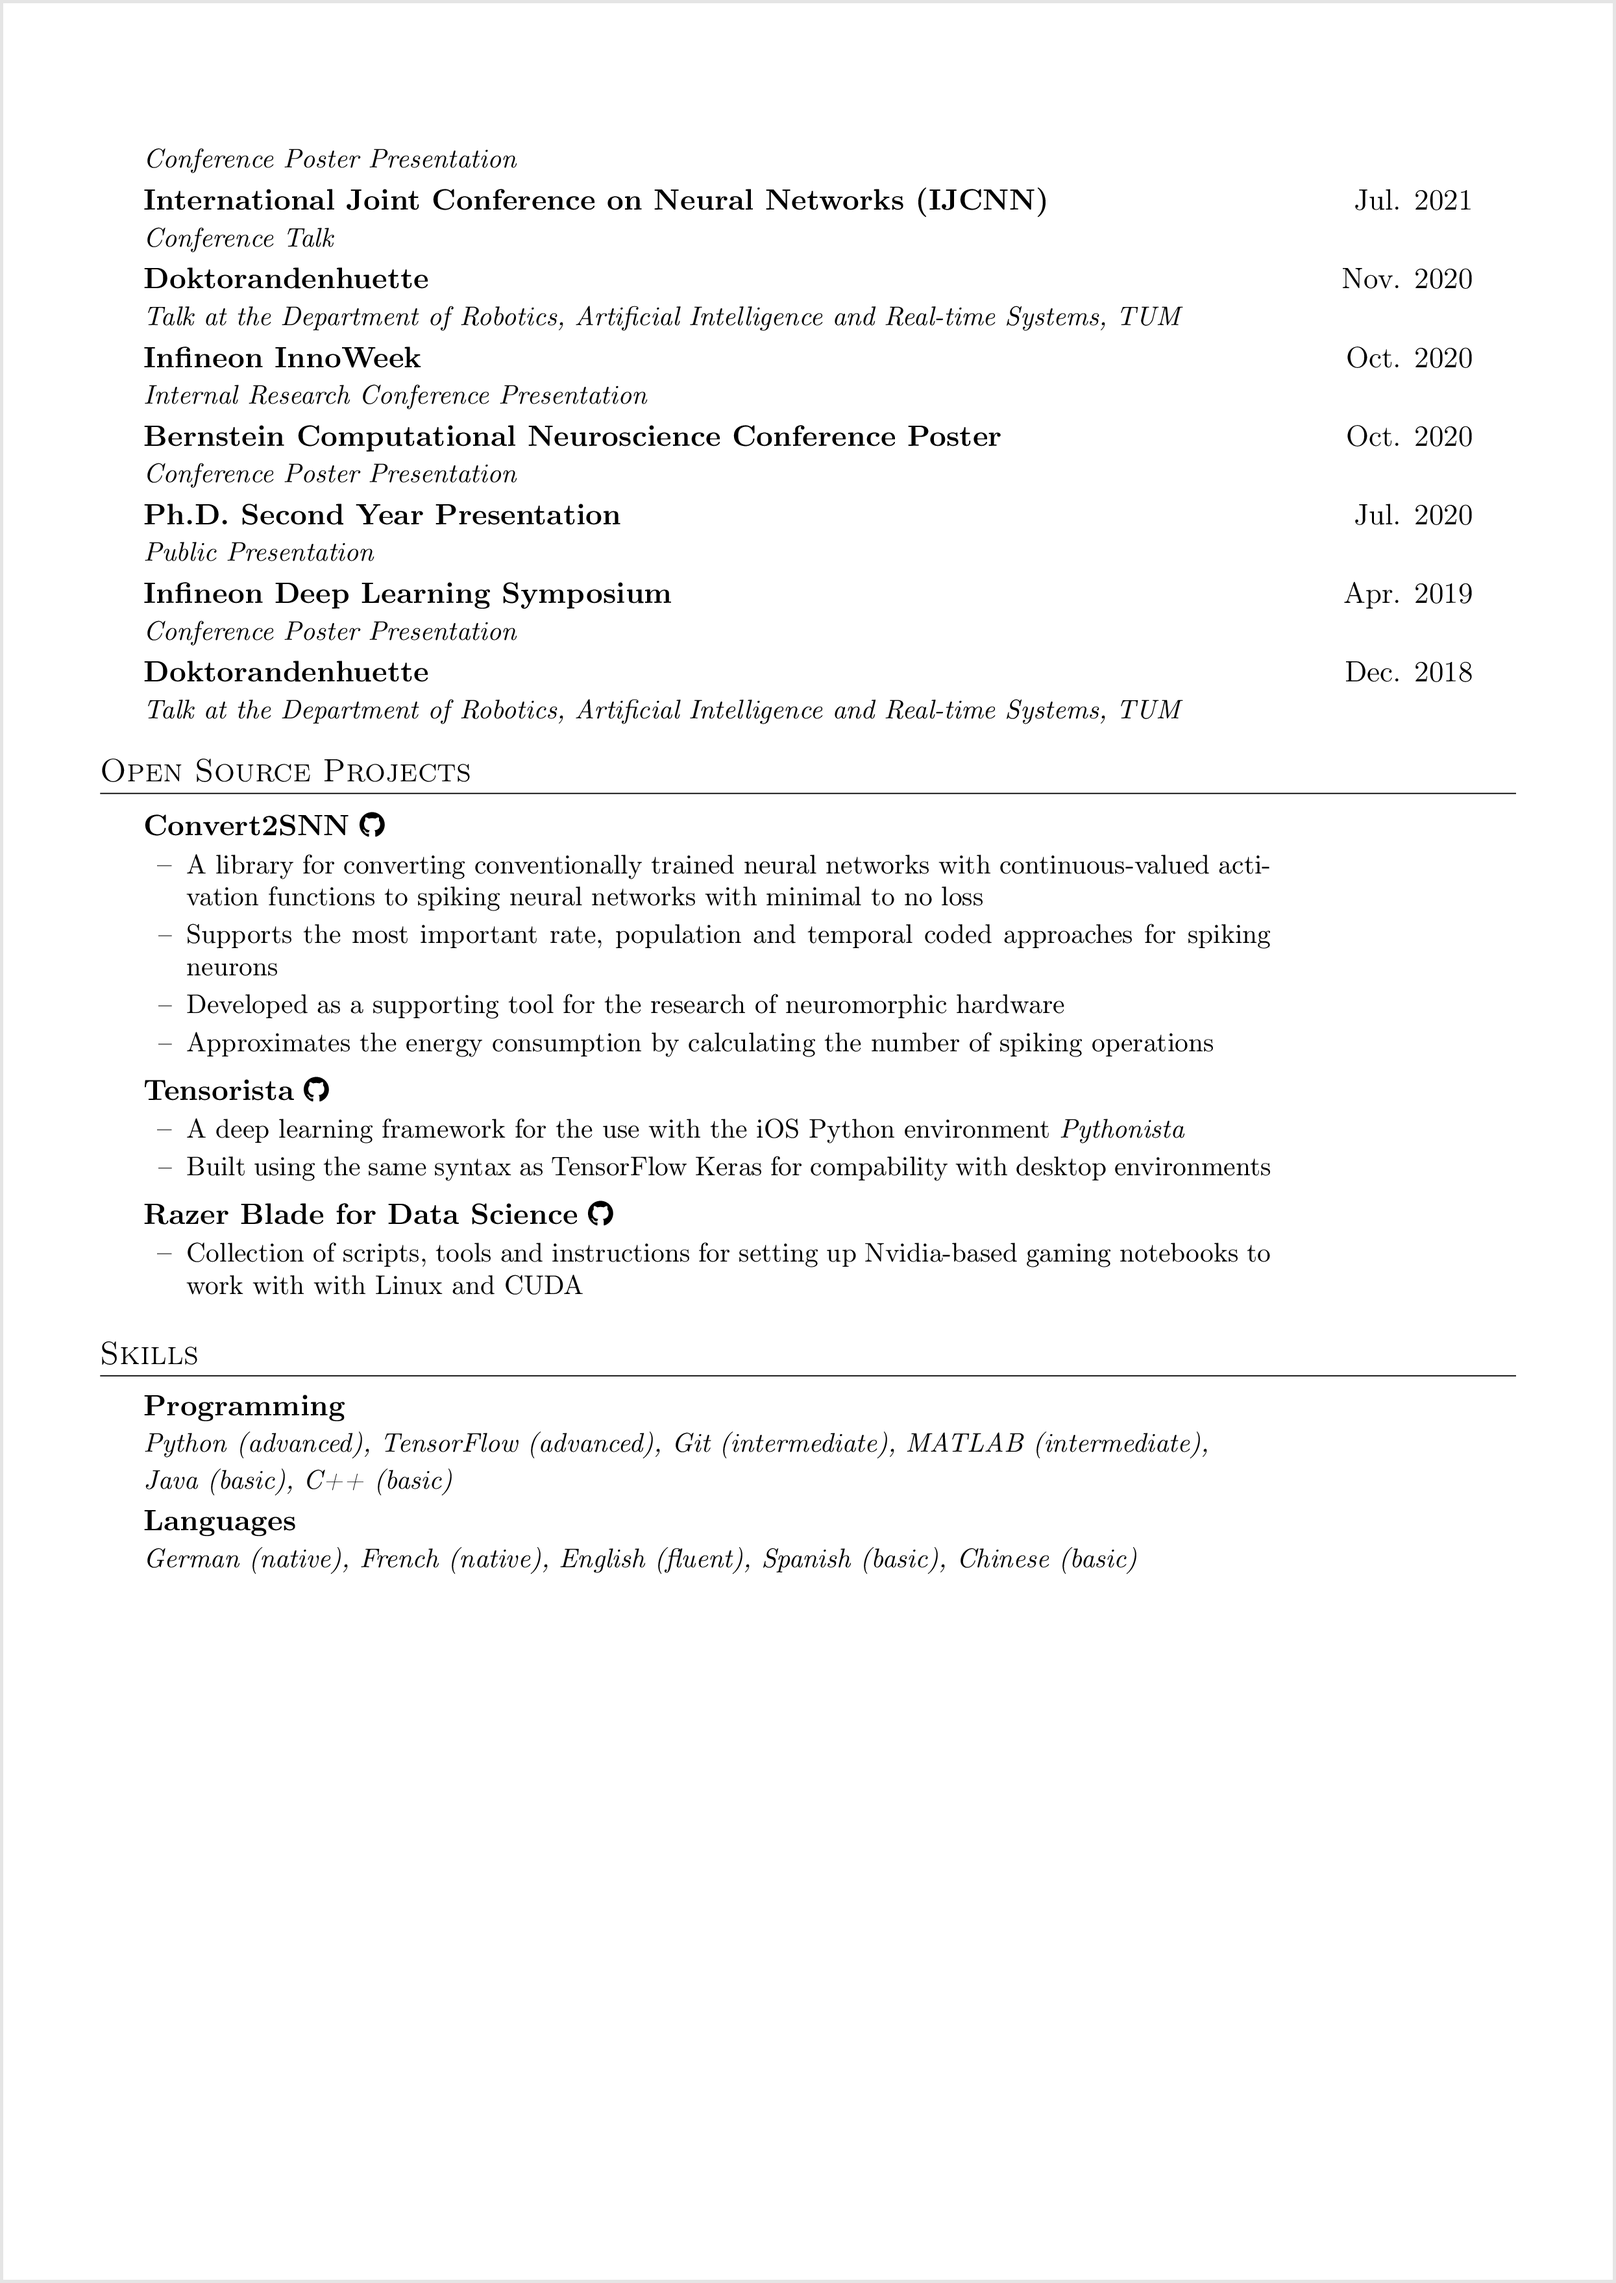
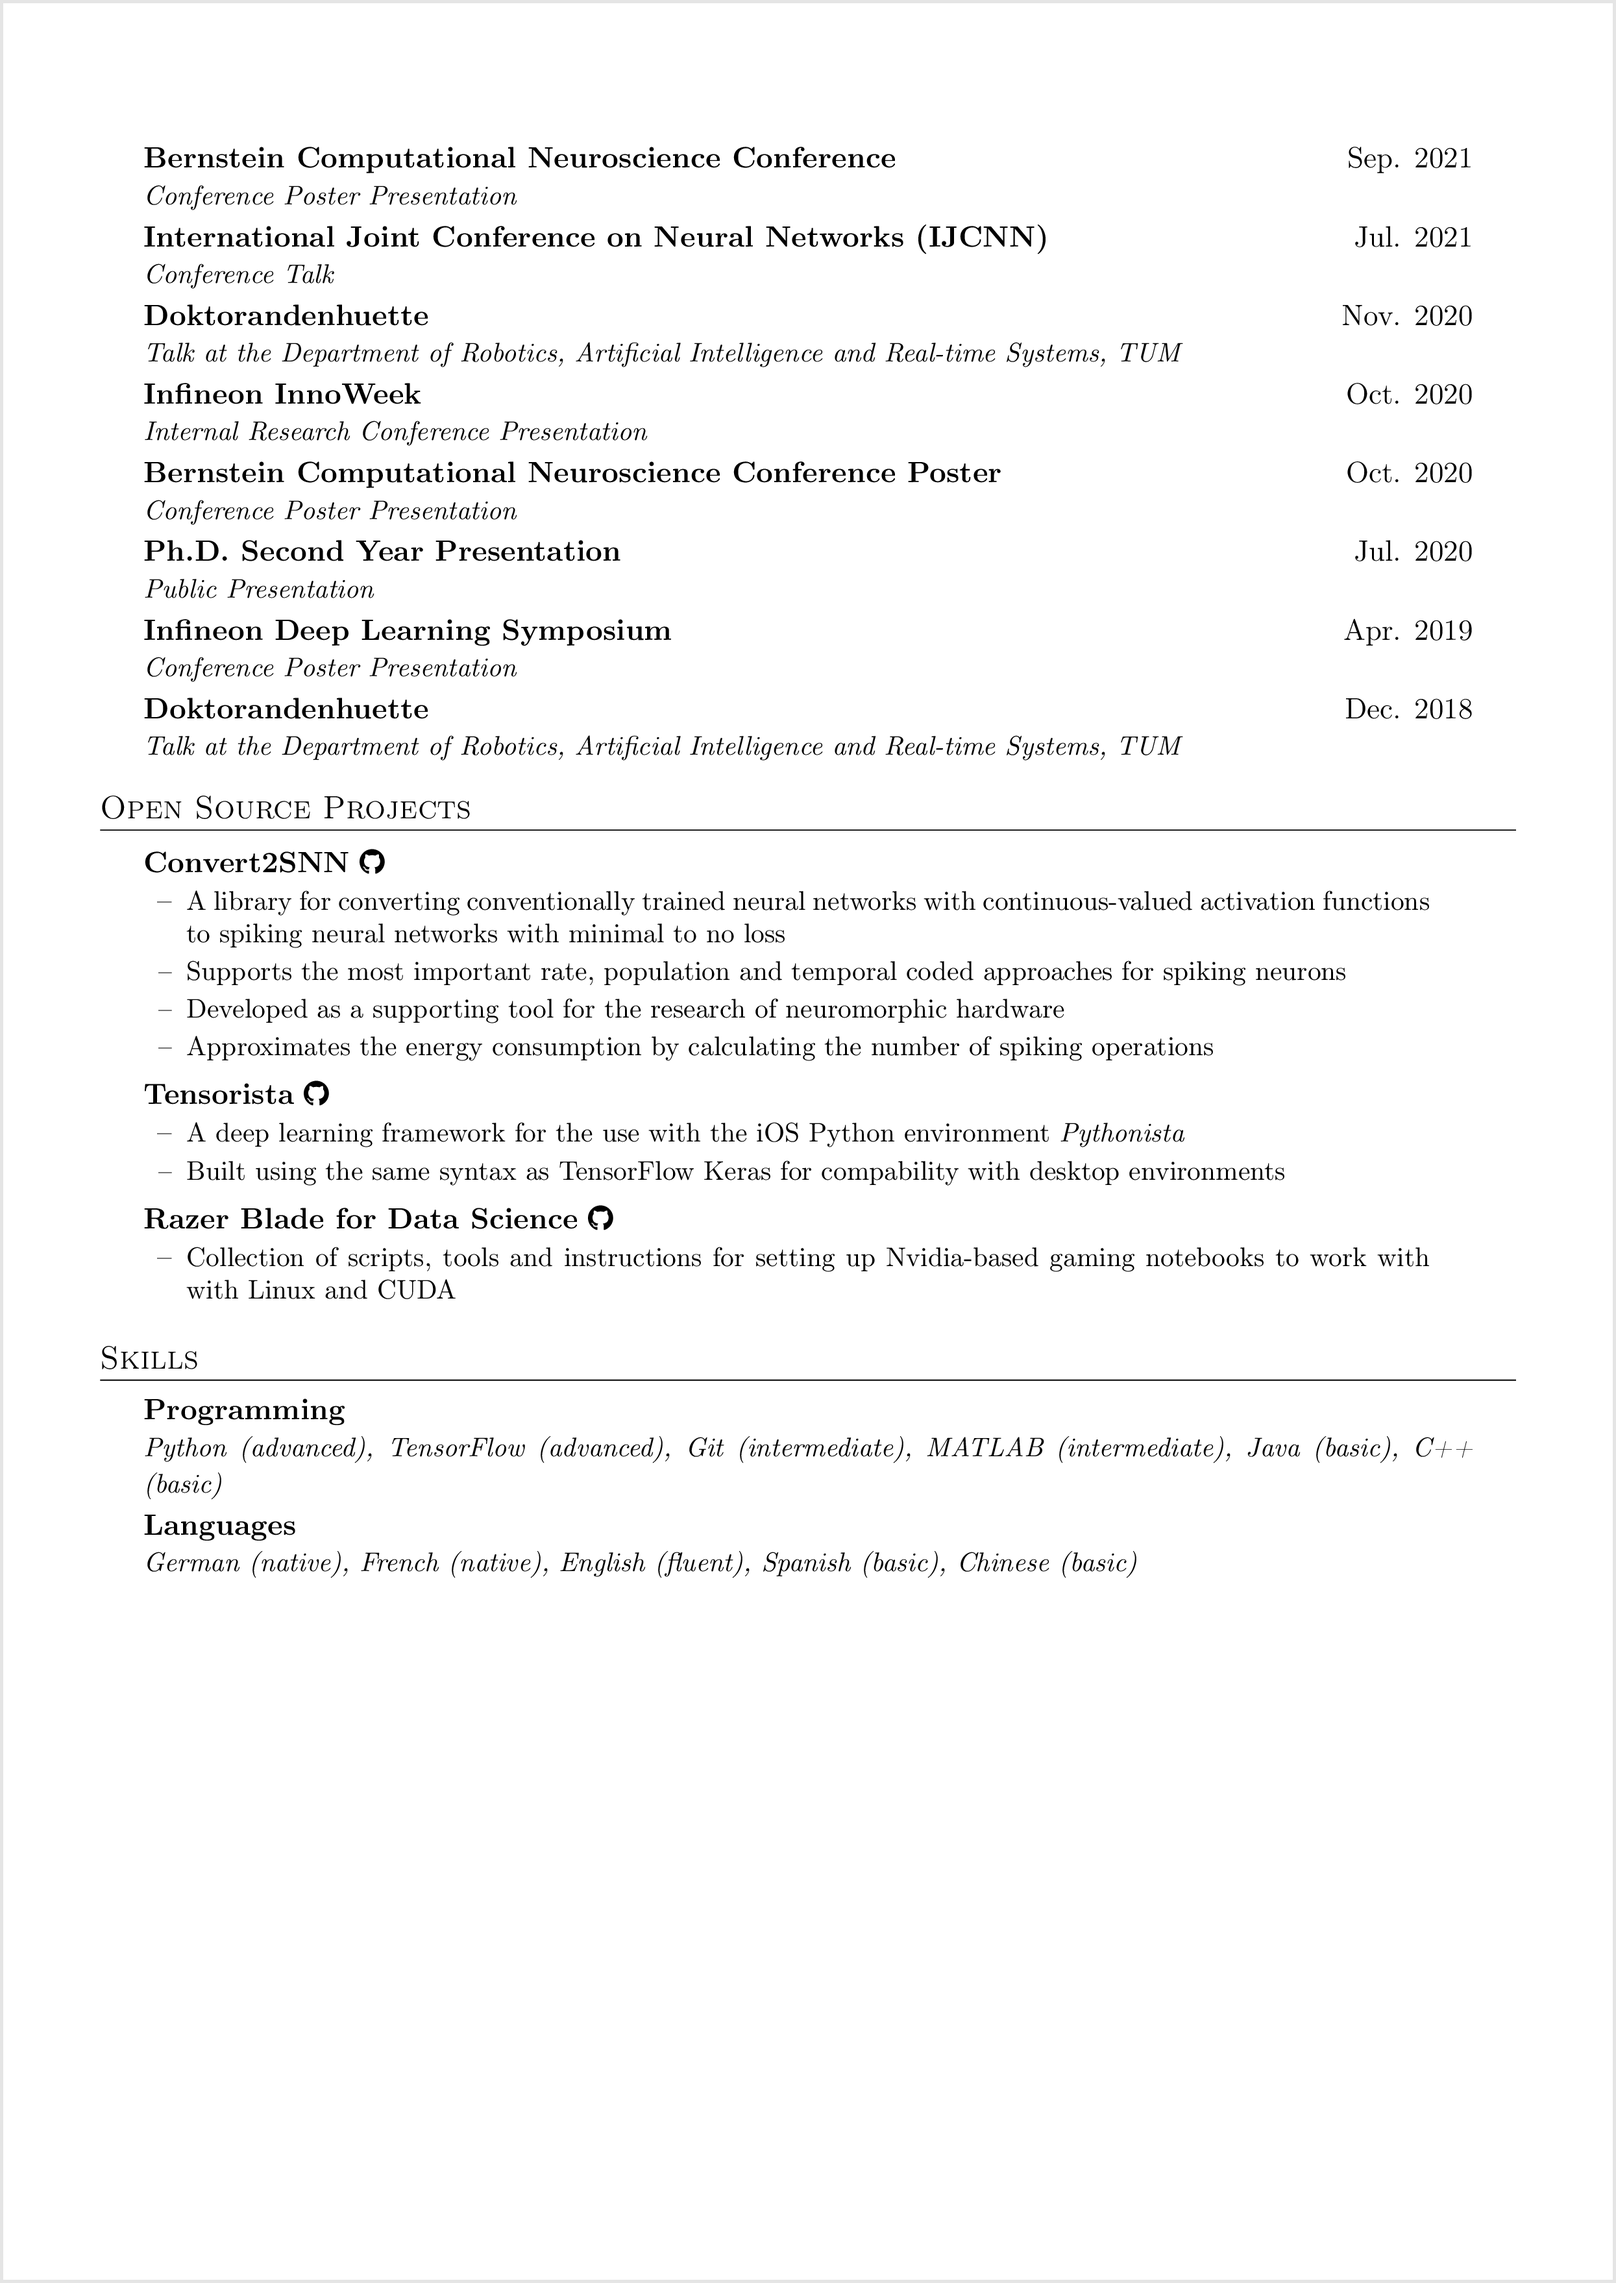
updates

diff --git a/cv.tex b/cv.tex
@@ -243,6 +243,7 @@
     \entryIt{Conference Talk}
     \entryBf{International Conference on Systems and Informatics (ICSAI)}{Nov. 2021}
     \entryIt{Conference Talk}
+    \\
     \entryBf{Bernstein Computational Neuroscience Conference}{Sep. 2021}
     \entryIt{Conference Poster Presentation}
     \entryBf{International Joint Conference on Neural Networks (IJCNN)}{Jul. 2021}
@@ -266,7 +267,7 @@
 \begin{itemize}
     \cvOS
         {Convert2SNN}{https://github.com/EtienneMueller/Convert2SNN}
-    \cvItemizeBegin
+    \begin{itemize}[rightmargin=16pt]
         \cvItem{A library for converting conventionally trained neural networks with continuous-valued activation functions to spiking neural networks with minimal to no loss}
         \cvItem{Supports the most important rate, population and temporal coded approaches for spiking neurons}
         \cvItem{Developed as a supporting tool for the research of neuromorphic hardware}
@@ -274,13 +275,13 @@
     \cvItemizeEnd
     \cvOS
         {Tensorista} {https://github.com/EtienneMueller/Tensorista}
-    \cvItemizeBegin
+    \begin{itemize}[rightmargin=16pt]
         \cvItem{A deep learning framework for the use with the iOS Python environment \textit{Pythonista}}
         \cvItem{Built using the same syntax as TensorFlow Keras for compability with desktop environments}
     \cvItemizeEnd
     \cvOS
         {Razer Blade for Data Science} {https://github.com/EtienneMueller/razer-blade-data-science}
-    \cvItemizeBegin
+    \begin{itemize}[rightmargin=16pt]
         \cvItem{Collection of scripts, tools and instructions for setting up Nvidia-based gaming notebooks to work with with Linux and CUDA}
     \cvItemizeEnd
 \end{itemize}
@@ -289,7 +290,7 @@
 \section{Skills}
 \begin{itemize}
     \entryBf{Programming}{}
-    \entryIt{Python (advanced), TensorFlow (advanced), Git (intermediate),  MATLAB (intermediate), \\ Java (basic), C++ (basic)}
+    \entryIt{Python (advanced), TensorFlow (advanced), Git (intermediate),  MATLAB (intermediate), Java (basic), C++ (basic)}
     \entryBf{Languages}{}
     \entryIt{German (native), French (native), English (fluent), Spanish (basic), Chinese (basic)}
 \end{itemize}
